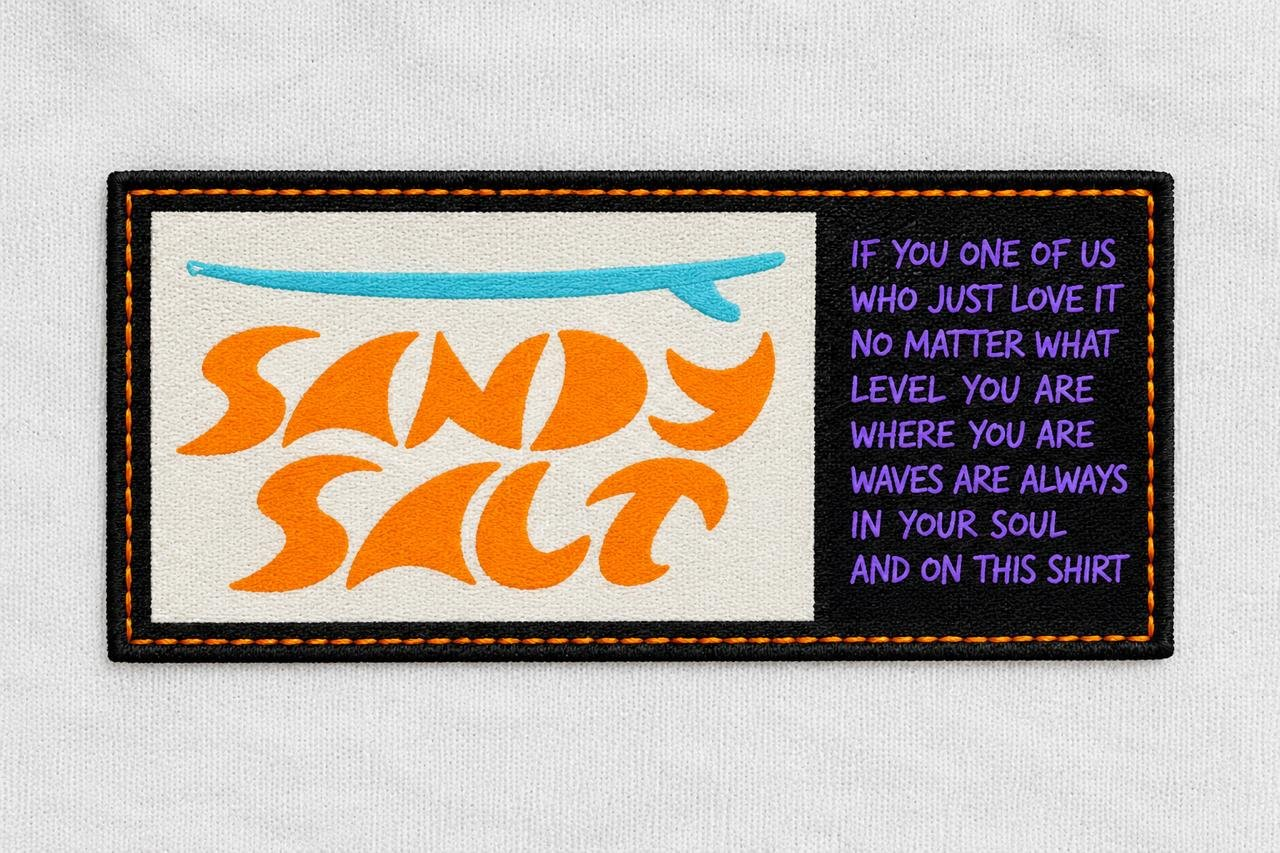
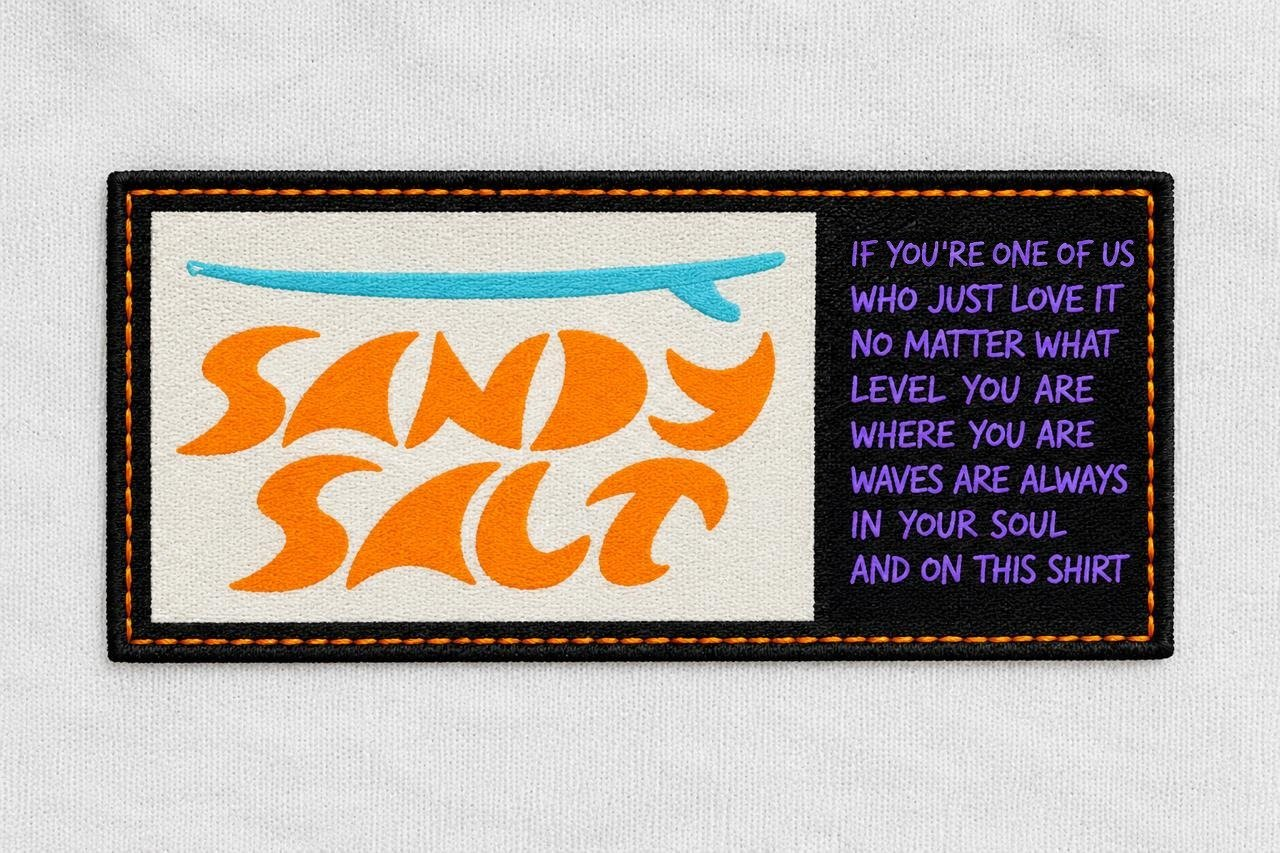
Fix patch text: If you're one of us

Changed region(s): [[0.6562, 0.2743, 0.9062, 0.3353]]

diff --git a/index.html b/index.html
@@ -326,7 +326,7 @@
       <span class="eyebrow">Манифест</span>
       <h2>Волны всегда с тобой</h2>
       <p class="lead">Для своих, кто просто любит серфинг. Неважно, какой у тебя уровень и где ты сейчас: волны остаются в душе и на этой футболке.</p>
-      <img class="reveal" src="img/patch.jpg" width="1280" height="853" loading="lazy" alt="Нашивка Sandy Salt: логотип с доской и надпись If you one of us who just love it, no matter what level you are, where you are, waves are always in your soul and on this shirt">
+      <img class="reveal" src="img/patch.jpg" width="1280" height="853" loading="lazy" alt="Нашивка Sandy Salt: логотип с доской и надпись If you're one of us who just love it, no matter what level you are, where you are, waves are always in your soul and on this shirt">
     </div>
   </section>
 </main>
